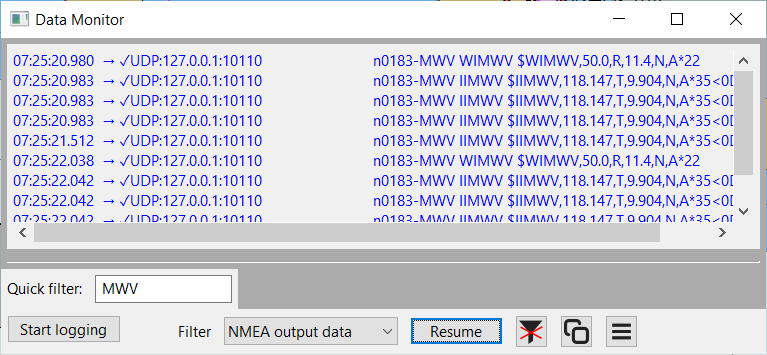
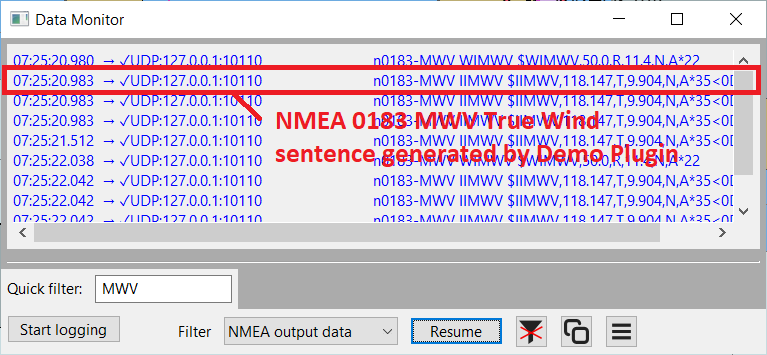
Chapter 8b. NMEA 2000 - Transmit data using Observer/Listener model

Changed region(s): [[0.0, 0.1859, 1.0, 0.3099], [0.3598, 0.4028, 0.8996, 0.4648], [0.3299, 0.3099, 0.7797, 0.3718]]

diff --git a/src/demo_plugin.cpp b/src/demo_plugin.cpp
@@ -33,6 +33,7 @@
 //            NMEA 0183 - (7c. Transmitting Data using PushNMEABuffer API)
 //			  NMEA 0183 - (7d. Transmitting Data using Observer/Lisyener model)
 // Chapter 8. NMEA 2000 - (8a. Receiving NMEA 2000 data)
+//			  NMEA 2000 - (8b. Transmitting NMEA 2000 data)
 
 #include "demo_plugin.h"
 
@@ -152,10 +153,10 @@ void DemoPlugin::LateInit(void) {
 		HandleVHW(ev);
 		});
 
-	// Find an outbound connection to use with WriteCommDriver
+	// Find an outbound NMEA 0183 connection to use with WriteCommDriver
 	nmea0183Driver = FindOutboundConnection("nmea0183");
 	if (nmea0183Driver.size() > 0) {
-		wxLogMessage("Demo Plugin, Using outbound network connection: %s", nmea0183Driver);
+		wxLogMessage("Demo Plugin, Using outbound NMEA 0183 network connection: %s", nmea0183Driver);
 	}
 
 	// Register subscriber for PGN 130306 Wind
@@ -174,6 +175,18 @@ void DemoPlugin::LateInit(void) {
 	Bind(EVT_N2K_128259, [&](ObservedEvt ev) {
 		HandleN2K_128259(ev);
 		});
+
+	// Find an outbound NMEA 2000 connection to use with WriteCommDriverN2K
+	nmea2000Driver = FindOutboundConnection("nmea2000");
+	if (!nmea2000Driver.empty()) {
+		wxLogMessage("Demo Plugin, Using outbound NMEA 2000 network connection: %s", nmea2000Driver);
+		// For the NMEA 2000 interface, plugins need to register what NMEA 2000 PGN's they transmit.
+		// This is required for Actisense NGT-1 Adapters
+		// Presumably results in a null operation (NOP) for other NMEA 2000 adapters
+		// In this demo plugin We will only transmit PGN 130306 Wind Speed and Direction
+		std::vector<int> transmittedPGN = { 130306 }; 
+		RegisterTXPGNs(nmea2000Driver, transmittedPGN);
+	}
 
 }
 
@@ -328,11 +341,21 @@ void DemoPlugin::HandleNavData(ObservedEvt ev) {
 	// sentences, using data received from wind and boat speed NMEA 0183 sentences
 	CalculateTrueWind();
 	// Generate the NMEA 0183 MWV sentence and transmit it.
-	//PushNMEABuffer(FormatTrueWindSentence());
+	// This is using the "old" API.
+	// PushNMEABuffer(FormatTrueWindSentence());
+	
 	// This is using the "new" Observer/Listener model.
 	// Only transmit if we have a valid outbound nmea0183 connection
-	if (nmea0183Driver.size() > 0) {
-		SendNMEA0183(FormatTrueWindSentence().ToStdString()); \
+	if (!nmea0183Driver.empty()) {
+		wxString sentence = FormatTrueWindSentence();
+		SendNMEA0183(nmea0183Driver, sentence.ToStdString());
+	}
+
+	// Transmit NMEA 2000 message using Observer/Listener model
+	// Only transmit if we have a valid outbound nmea2000 connection
+	if (!nmea2000Driver.empty()) {
+		std::vector<uint8_t> payload = FormatTrueWindMessage();
+		SendNMEA2000(nmea2000Driver, 255, 4, 130306, payload);
 	}
 }
 
@@ -421,7 +444,7 @@ void DemoPlugin::CalculateTrueWind(void) {
 }
 
 
-// Generate NMEA 0183 MWV Sentence using OpenCPN support library 
+// Generate NMEA 0183 MWV Sentence for True Wind Angle, using OpenCPN support library 
 wxString DemoPlugin::FormatTrueWindSentence(void) {
 	NMEA0183 NMEA0183parser;
 	SENTENCE NMEASentence;
@@ -460,43 +483,81 @@ std::string DemoPlugin::FindOutboundConnection(const std::string& connectionType
 }
 
 // Send NMEA 0183 Sentence using observer/listener model
-void DemoPlugin::SendNMEA0183(const std::string& sentence) {
+void DemoPlugin::SendNMEA0183(const std::string& driverHandle, const std::string& sentence) {
 	std::vector<uint8_t> payload(sentence.begin(), sentence.end());
 
 	auto sharedPointer = std::make_shared<std::vector<uint8_t> >(std::move(payload));
-	CommDriverResult result = WriteCommDriver(nmea0183Driver, sharedPointer);
+	CommDriverResult result = WriteCommDriver(driverHandle, sharedPointer);
 	if (result != RESULT_COMM_NO_ERROR) {
 		wxLogMessage("Demo Plugin, Error sending NMEA 0183 Sentence: %d", result);
 	}
 }
 
+// Note for NMEA 2000 data. 
+// The payload is not "a NMEA 2000 payload" but an Actisense NGT-1 payload (Don't ask!)
+// 
+// The text representation of the binary payload once the Data Link Escape (DLE), 
+// Start of Transmission (STX) and End of Transmission (ETX) delimiters have been removed is:
+// 93 13 02 01 F8 01 FF 01 76 C2 52 00 08 08 70 EB 14 E8 8E 52 D2 BB 10
+// This decodes as:
+// command (1 byte)		0x93 Value = 0x93 indicates NGT-1 format
+// length (1 byte)	    0x13 Length of frame excluding command, length and CRC
+// priority (1 byte)    0x02
+// PGN (3 bytes)        0x01 0xF8 0x01
+// destination(1 byte)  0xFF
+// source (1 byte)      0x01
+// timestamp (4 bytes)  0x76 0xC2 0x52 0x00
+// data length (1 byte) 0x08
+// data (data length)   08 70 EB 14 E8 8E 52 D2
+// checksum (1 byte)	BB Ensures sum of characters % 256 equals 0
+// However the bundled NMEA 2000 parsers handle the "unpacking"
+
+// Parse NMEA 2000 PGN 128269 message (Boat Speed)
 void DemoPlugin::HandleN2K_128259(ObservedEvt ev) {
 	NMEA2000Id id_128259(128259);
 	std::vector<uint8_t> payload = GetN2000Payload(id_128259, ev);
-	unsigned char sid;
+	unsigned char sequenceId;
 	double boatSpeedWaterReferenced;
 	double boatSpeedGroundReferenced;
 	tN2kSpeedWaterReferenceType waterReferenceType;
 
-	if (ParseN2kPGN128259(payload, sid, boatSpeedWaterReferenced, boatSpeedGroundReferenced, waterReferenceType)) {
+	if (ParseN2kPGN128259(payload, sequenceId, boatSpeedWaterReferenced, boatSpeedGroundReferenced, waterReferenceType)) {
 		// Convert from NMEA 2000 SI units which are m/s to OpenCPN's core units
 		boatSpeed = fromUsrSpeed_Plugin(boatSpeedWaterReferenced, 3);
 	}
 }
 
-// Parse NMEA 2000 Wind message
+// Parse NMEA 2000 PGN 130306 message (Wind Speed & Angle)
 void DemoPlugin::HandleN2K_130306(ObservedEvt ev) {
 	NMEA2000Id id_130306(130306);
 	std::vector<uint8_t> payload = GetN2000Payload(id_130306, ev);
-	unsigned char sid;
+	unsigned char sequenceId;
 	double windSpeed;
 	double windAngle;
 	tN2kWindReference windReferenceType;
 
-	if (ParseN2kPGN130306(payload, sid, windSpeed, windAngle, windReferenceType)) {
-		// Convert from m/s and radians to OpenCPN's core units
+	if (ParseN2kPGN130306(payload, sequenceId, windSpeed, windAngle, windReferenceType)) {
+		// Convert from SI Units, m/s and radians to OpenCPN's core units
 		apparentWindSpeed = fromUsrSpeed_Plugin(windSpeed, 3);
 		apparentWindAngle = windAngle * 180 / M_PI;
+	}
+}
+
+// Generate NMEA 2000 PGN 130306 message with True Wind Angle
+std::vector<uint8_t> DemoPlugin::FormatTrueWindMessage(void) {
+	tN2kMsg msg130306;
+	SetN2kWindSpeed(msg130306, 1, trueWindSpeed, trueWindAngle, tN2kWindReference::N2kWind_True_boat);
+	std::vector<uint8_t> data(msg130306.Data, msg130306.Data + msg130306.DataLen);
+	return data;
+}
+
+// Send NMEA 2000 message
+void DemoPlugin::SendNMEA2000(const std::string& driverHandle, const unsigned char& destination,
+	const unsigned char& priority, const unsigned int pgn, std::vector<uint8_t>& payload) {
+	auto sharedPointer = std::make_shared<std::vector<uint8_t>>(payload);
+	CommDriverResult result = WriteCommDriverN2K(driverHandle, pgn, destination, priority, sharedPointer);
+	if (result != RESULT_COMM_NO_ERROR) {
+		wxLogMessage("Demo Plugin, Error sending NMEA 2000 PGN %d: %d", pgn, result);
 	}
 }
 

diff --git a/inc/demo_plugin.h b/inc/demo_plugin.h
@@ -103,9 +103,14 @@ private:
 	// Speed Through Water
 	double boatSpeed;
 
-	// Calculate and Generate NMEA 0183 True Wind sentences
+	// Calculate True Wind
 	void CalculateTrueWind(void);
+
+	// Generate NMEA 0183 MWV Sentence for True Wind Angle
 	wxString FormatTrueWindSentence(void);
+
+	// Generate NMEA 2000 PGN 130306 message for True Wind Angle
+	std::vector<uint8_t> FormatTrueWindMessage(void);
 
 	// Function to parse NMEA0183 MWV sentences
 	void ParseWind(NMEA0183* nmea0183Sentence);
@@ -113,10 +118,16 @@ private:
 	// Helper function to find a required connection
 	std::string FindOutboundConnection(const std::string& connectionType);
 
-	// Transmit data using observer/listener model
+	// Transmit NMEA 0183 data using observer/listener model
 	// An interface for a NMEA 0183 connection
 	DriverHandle nmea0183Driver;
-	void SendNMEA0183(const std::string& sentence);
+	void SendNMEA0183(const std::string& driverHandle, const std::string& sentence);
+
+	// Transmit NMEA 2000 data using observer/listener model
+	// An interface for a NMEA 2000 connection
+	DriverHandle nmea2000Driver;
+	void SendNMEA2000(const std::string& driverHandle, const unsigned char& destination, 
+		const unsigned char& priority,	const unsigned int pgn,	std::vector<uint8_t>& payload);
 
 	// New Observer Listener model handlers
 	
